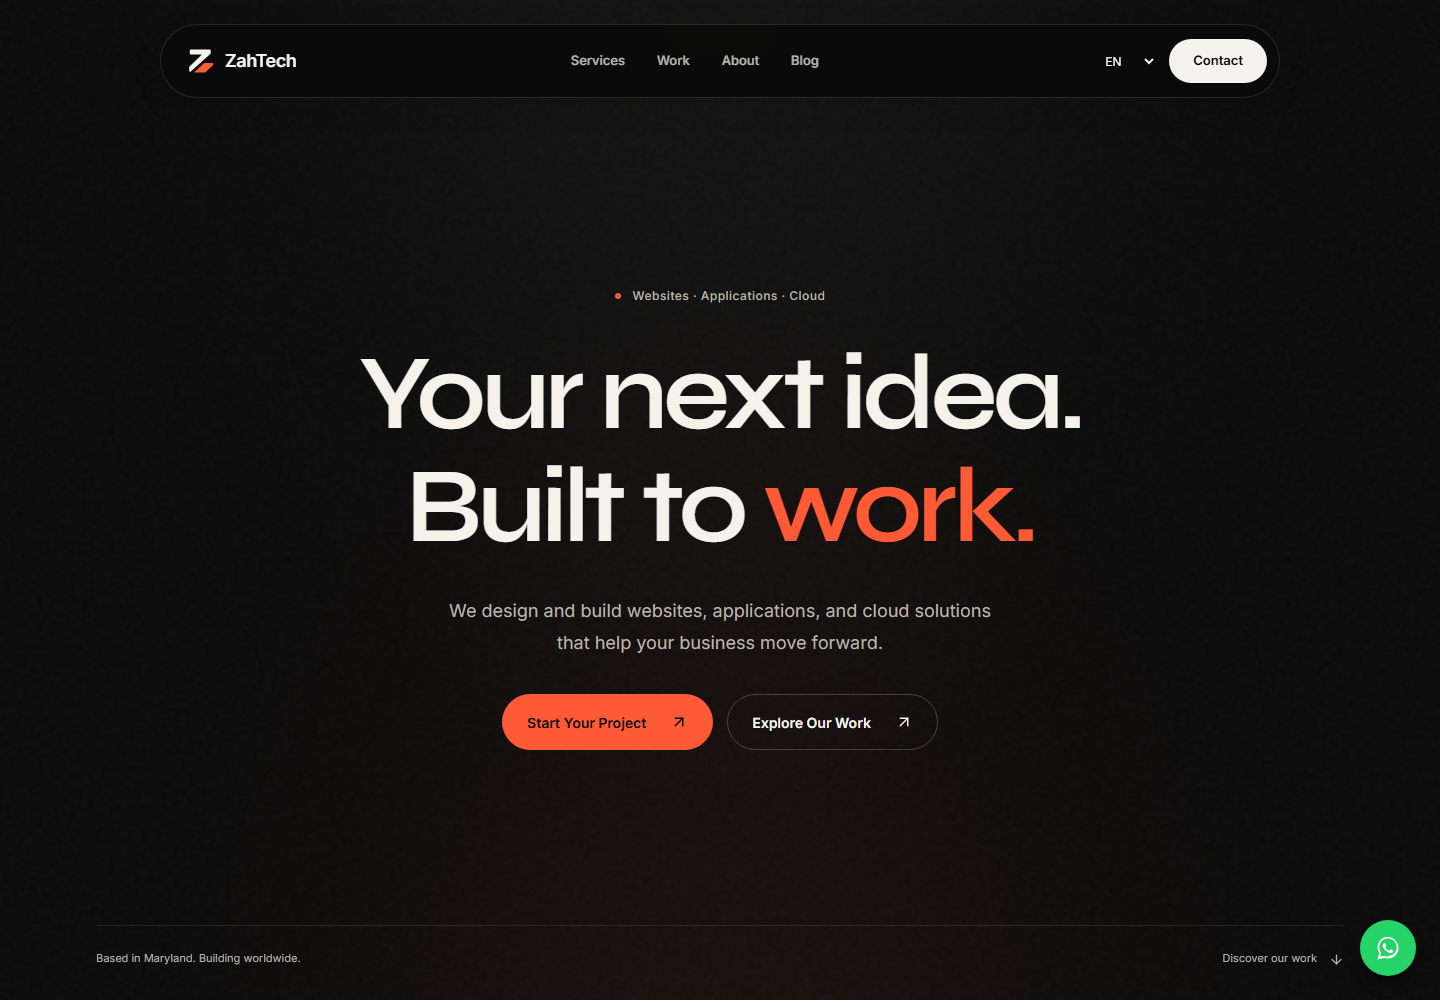
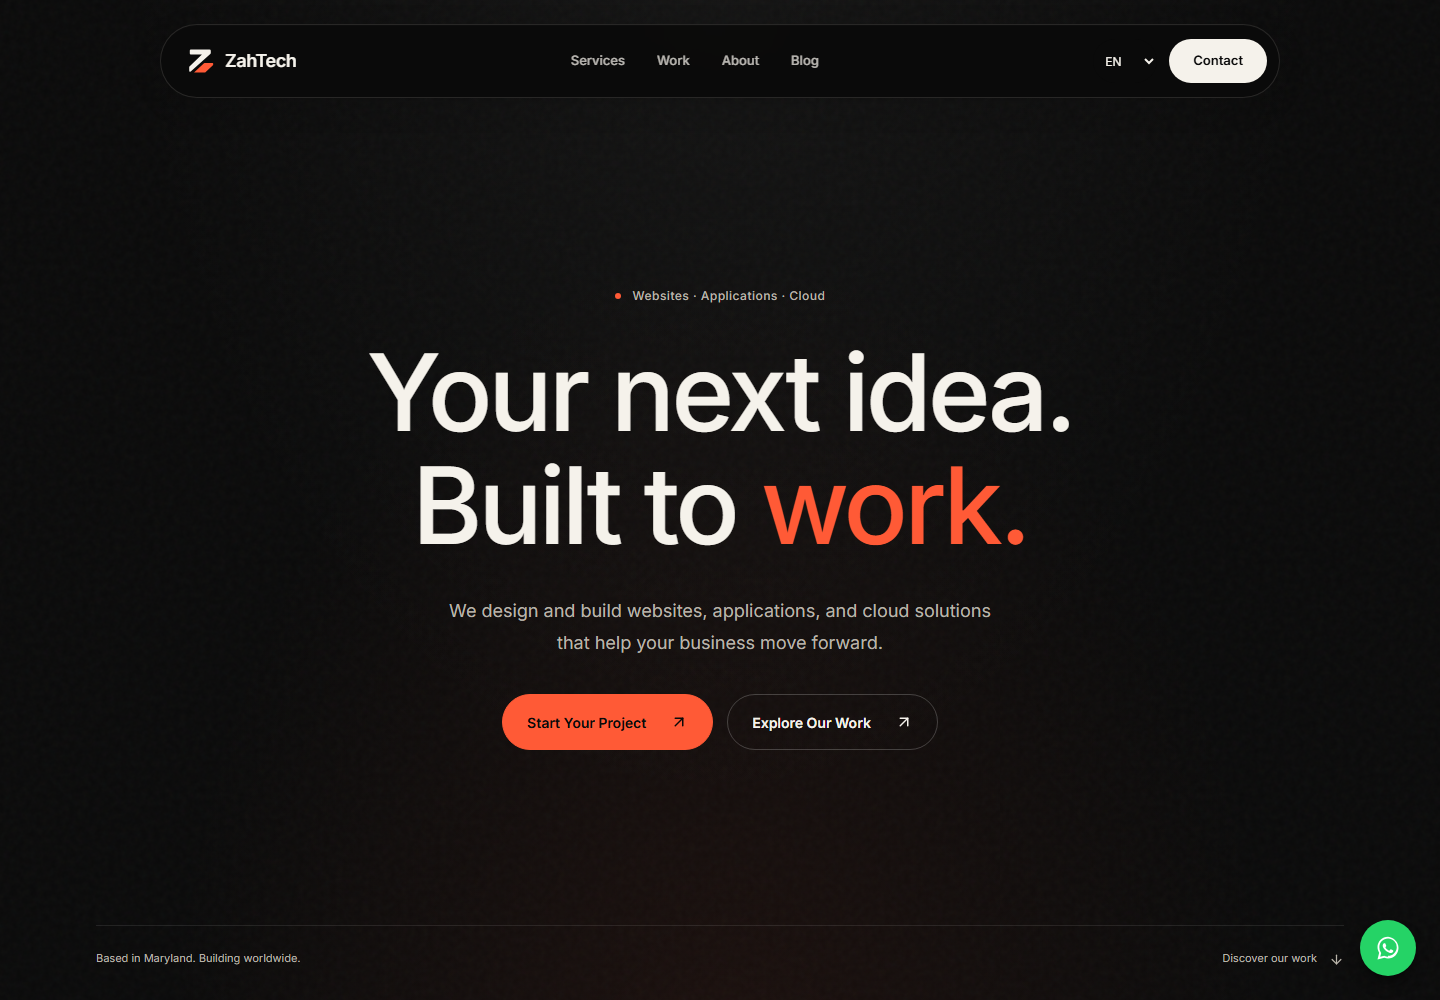
Refine hero typography with lighter Inter title

Changed region(s): [[0.2812, 0.465, 0.7188, 0.558], [0.25, 0.341, 0.75, 0.434]]

diff --git a/src/components/site/home-first-screen.css b/src/components/site/home-first-screen.css
@@ -163,12 +163,12 @@
   background: var(--brand-signal);
 }
 .home-hero__heading {
-  font-family: "ZahTech Hero Display", ui-sans-serif, system-ui, sans-serif;
+  font-family: "ZahTech Hero Sans", ui-sans-serif, system-ui, sans-serif;
   margin: 0;
   font-size: clamp(3.4rem, 7.4vw, 7.25rem);
-  font-weight: 600;
+  font-weight: 500;
   line-height: 1.06;
-  letter-spacing: -0.045em;
+  letter-spacing: -0.035em;
   text-wrap: balance;
 }
 .home-hero__heading > span {
@@ -275,7 +275,7 @@
   }
   .home-hero__heading {
     font-size: clamp(3rem, 9.5vw, 4.75rem);
-    letter-spacing: -0.045em;
+    letter-spacing: -0.035em;
     line-height: 1.12;
   }
   .home-hero__description {

diff --git a/docs/hero-review/README.md b/docs/hero-review/README.md
@@ -1,4 +1,4 @@
-# Premier écran ZahTech — revue visuelle
+# Premier écran ZahTech — revue visuelle
 
 Tâche : navigation et accueil uniquement. Propriétaire de la revue : ZahTech.
 Statut : en attente de revue visuelle.
@@ -6,15 +6,15 @@ Branche : `feat/hero-navigation-review`.
 
 ## Proposition
 
-Fond encre, grain et éclairage discrets, titre Syne blanc chaud ponctué d’orange,
+Fond encre, grain et éclairage discrets, titre Inter blanc chaud, en graisse 500 avec un espacement moins serré, ponctué d’orange,
 navigation flottante et deux liens vers les pages Contact et Work. L’apparition
 Framer Motion dure au plus 0,8 seconde, sans bloquer le défilement. Le HTML reste
 lisible sans JavaScript et la réduction des animations est respectée.
 
 Le logo existant, les sections suivantes et la navigation des autres pages sont
 conservés. Les nouveaux textes EN/FR/ES restent séparés des CTA partagés.
-Syne et Inter sont embarquées sous des alias réservés au premier écran, avec
-leurs licences OFL : les anciennes URL externes sont invalides. Les fichiers
+Inter est utilisée pour le titre et le texte du premier écran, avec
+sa licence OFL : les anciennes URL externes sont invalides. Les fichiers
 partagés de styles et de polices des autres sections ne sont pas modifiés.
 
 ## Aperçu et captures
